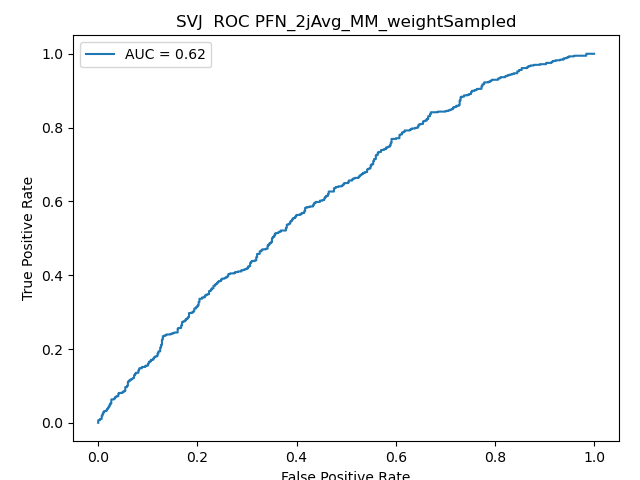
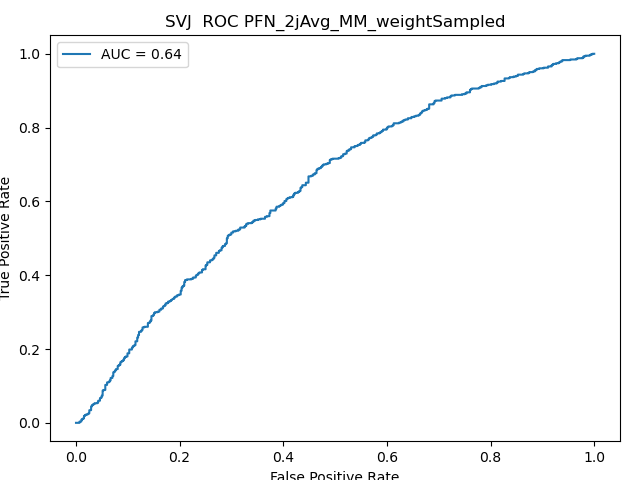
added weight sampling on read_ hlvs

diff --git a/eval_helper.py b/eval_helper.py
@@ -20,7 +20,8 @@ def getTwoJetSystem(x_events,y_events, tag_file, tag_title, bool_weight):
 #    track_array1 = ["jet_GhostTrack_pt_1", "jet_GhostTrack_eta_1", "jet_GhostTrack_phi_1", "jet_GhostTrack_e_1","jet_GhostTrack_z0_1", "jet_GhostTrack_d0_1", "jet_GhostTrack_qOverP_1"]
     #track_array1 = ["jet_GhostTrack_pt_1", "jet_GhostTrack_eta_1", "jet_GhostTrack_phi_1", "jet_GhostTrack_e_1"]
 #    jet_array = ["jet1_eta", "jet1_phi", "jet2_eta", "jet2_phi", "jet1_pt", "jet2_pt"]
-    jet_array = ["jet1_eta", "jet2_eta", "jet1_phi", "jet2_phi"] # order is important in apply_JetScalingRotation
+    jet_array = ["jet1_pt", "jet2_pt", "jet1_phi", "jet2_phi"] # order is important in apply_JetScalingRotation
+    #jet_array = ["jet1_eta", "jet2_eta", "jet1_phi", "jet2_phi"] # order is important in apply_JetScalingRotation
 #    jet_array_old = ["jet_eta", "jet_phi"]
 #    track_array2 = ["jet_GhostTrack_d0_0", "jet_GhostTrack_z0_0", "jet_GhostTrack_qOverP_0", "jet_GhostTrack_e_0"]
 
@@ -44,18 +45,16 @@ def getTwoJetSystem(x_events,y_events, tag_file, tag_title, bool_weight):
 
     """
     read_dir='/nevis/katya01/data/users/ebusch/SVJ/autoencoder/v8.1/'
+#    jet_bkg = read_hlvs(read_dir+"user.ebusch.QCDskim.mc20e.root", x_events, jet_array)  # select with weight??
+    jet_bkg = read_hlvs(read_dir+"user.ebusch.QCDskim.mc20e.root", x_events, jet_array, bool_weight=bool_weight)  # select with weight??
     bkg_in0 = read_vectors(read_dir+"user.ebusch.QCDskim.mc20e.root", x_events, track_array0, bool_weight=bool_weight)
-    #bkg_in0 = read_vectors(read_dir+"user.ebusch.QCDskim.mc20e.root", x_events,  bool_weight=bool_weight)
     sig_in0 = read_vectors(read_dir+"user.ebusch.SIGskim.mc20e.root", y_events,track_array0, bool_weight=bool_weight)
-    #sig_in0 = read_vectors(read_dir+"user.ebusch.SIGskim.mc20e.root", y_events, bool_weight=bool_weight)
     bkg_in1 = read_vectors(read_dir+"user.ebusch.QCDskim.mc20e.root", x_events, track_array1, bool_weight=bool_weight)
-    #bkg_in1 = read_vectors(read_dir+"user.ebusch.QCDskim.mc20e.root", x_events,  bool_weight=bool_weight)
     sig_in1 = read_vectors(read_dir+"user.ebusch.SIGskim.mc20e.root", y_events,track_array1, bool_weight=bool_weight)
-    #sig_in1 = read_vectors(read_dir+"user.ebusch.SIGskim.mc20e.root", y_events, bool_weight=bool_weight)
-    jet_bkg = read_hlvs(read_dir+"user.ebusch.QCDskim.mc20e.root", x_events, jet_array)  # select with weight??
-    #jet_bkg = read_hlvs(read_dir+"user.ebusch.QCDskim.mc20e.root", x_events,  bool_weight=bool_weight)
-    jet_sig = read_hlvs(read_dir+"user.ebusch.SIGskim.mc20e.root", y_events, jet_array)
-    #jet_sig = read_hlvs(read_dir+"user.ebusch.SIGskim.mc20e.root", y_events,  bool_weight=bool_weight)
+#    jet_sig = read_hlvs(read_dir+"user.ebusch.SIGskim.mc20e.root", y_events, jet_array)
+    jet_sig = read_hlvs(read_dir+"user.ebusch.SIGskim.mc20e.root", y_events, jet_array, bool_weight=bool_weight)
+
+    plot_vectors_jet(jet_bkg,jet_sig,tag_file=tag_file, tag_title=tag_title)
     _, _, bkg_nz0 = apply_TrackSelection(bkg_in0, jet_bkg)
     _, _, sig_nz0 = apply_TrackSelection(sig_in0, jet_sig)
     _, _, bkg_nz1 = apply_TrackSelection(bkg_in1, jet_bkg)
@@ -75,6 +74,8 @@ def getTwoJetSystem(x_events,y_events, tag_file, tag_title, bool_weight):
     sig_pt1 = sig_in1[sig_nz]
     bjet_sel = jet_bkg[bkg_nz]
     sjet_sel = jet_sig[sig_nz]
+    
+    print('bkg_pt0',bkg_pt0)
 
     bkg_sel0 = pt_sort(bkg_pt0, 0)
     bkg_sel1 = pt_sort(bkg_pt1, 1)
@@ -83,9 +84,12 @@ def getTwoJetSystem(x_events,y_events, tag_file, tag_title, bool_weight):
  
     bkg_sel = np.concatenate((bkg_sel0,bkg_sel1),axis=1)
     sig_sel = np.concatenate((sig_sel0,sig_sel1),axis=1)
+
+    
 #    print('bkg_sel0, bkg_sel1',bkg_sel.shape, bkg_sel1.shape)
 # ADDED 5/22/23 
 
+    sys.exit()
     plot_vectors(bkg_sel,sig_sel,tag_file=tag_file, tag_title=tag_title)
     bkg = apply_JetScalingRotation(bkg_sel, bjet_sel,0)
     sig = apply_JetScalingRotation(sig_sel, sjet_sel,0)
@@ -138,7 +142,7 @@ def pt_sort(x, jet_idx):
     for i in range(x.shape[0]):
         ev = x[i]
         x[i] = ev[ev[:,0].argsort()]
-    if (jet_idx == 0):
+    if (jet_idx == 0): # if leading jet
         y = x[:,-9:,:]
     elif (jet_idx == 1):
         y = x[:,-7:,:]

diff --git a/root_to_numpy.py b/root_to_numpy.py
@@ -24,7 +24,7 @@ def read_test_variables(infile, nEvents, variables):
         my_dict[key] = my_dict[key][idx]
     return my_dict
 
-def read_hlvs(infile, nEvents, variable_array): # different from variable_array on the top of this file
+def read_hlvs(infile, nEvents, variable_array, bool_weight=False): # different from variable_array on the top of this file
     file = uproot.open(infile)
 	
 	
@@ -32,28 +32,64 @@ def read_hlvs(infile, nEvents, variable_array): # different from variable_array 
 
 	# A random 6 variables	
     my_array = tree.arrays(variable_array, library="np")
-    idx = get_spaced_elements(len(my_array[variable_array[0]]),nEvents)
+    
+    if bool_weight:
+      weight_array=["weight"]
+      my_weight_array = tree.arrays(weight_array, library = "np")
+      my_weight_array = my_weight_array[weight_array[0]]
+      idx=np.random.choice( my_weight_array.size,size= nEvents, p=my_weight_array/float(my_weight_array.sum()),replace=False) # IMPT that replace=False so that event is picked only once
+      idx = np.sort(idx)
+#      print('weighted sampling idx', idx.shape, idx)
+
+    else: 
+    # select evenly spaced events from input distribution
+      idx = get_spaced_elements(len(my_array[variable_array[0]]),nEvents)
+#      print(f'{len(my_jet_array[jet_array[0]])/nEvents}th idx', idx.shape, idx)
+#      print(my_jet_array[jet_array[0]])
+#      print('evenly spaced sampling idx', idx.shape, idx)
+
+    #padded_array=selected_jet_array
+
+
     selected_array = np.array([val[idx] for _,val in my_array.items()]).T
 	#print("My array:")
 	#print(selected_array)
 	#print(type(selected_array))
     
+    print('SEL',selected_array.shape,selected_array)   
 
 #    print('before-'*50)
 #    print(f'{infile}\n{selected_array.shape}\n{selected_array}')
     max_jets=15 
     unique_variable_array=list(set([x.split("_")[-1] for x in variable_array])) # unique variable name without 'jetx_' 
+ #   print('&'*50)
+ #   print( f'{infile}\n{selected_array.shape}\n{selected_array}')
+    """
+    
+    ### Two different ways to reshape the 2D to 3D array of shape (5000, max_jets, 2) where 2 is for 2 hlvs
+    # 1st method: loop -> less efficient, but more intuitive
     padded_array= np.zeros((len(selected_array),max_jets,len(unique_variable_array)))
     for e in range(selected_array.shape[0]):
       padded_array[e, 0,0]=selected_array[e,0]
       padded_array[e, 1,0]=selected_array[e,1]
       padded_array[e, 0,1]=selected_array[e,2]
       padded_array[e, 1,1]=selected_array[e,3]
-      
- 
     print('-'*50)
+    print(f'{infile}\n{padded_array.shape}\n{padded_array}')
+    #"""
+ 
+    # 2nd method: use reshape, transpose and pad functions -> more efficient, but less intuitive 
+    size=2  # b/c jet1_pt and jet2_pt
+    length=2 # b/c eta and phi
+    padded_array=selected_array.reshape(selected_array.shape[0],size, length).transpose(0,2,1)
+    pad_width =((0,0),(0, max_jets-size), (0,0))
+    padded_array=np.pad(padded_array,pad_width=pad_width, constant_values= 0)
+#    print('!'*50)
 #    print(f'{infile}\n{padded_array.shape}\n{padded_array}')
     #return selected_array
+
+    ##############
+
     return padded_array
  
 

diff --git a/svj_pfn.py b/svj_pfn.py
@@ -27,9 +27,10 @@ ae_model = 'PFN'
 arch_dir = "architectures_saved/"
 ## Load leading two jets
 # Plot inputs before the jet rotation
-bool_weight=True
-if bool_weight:weight_tag='weightSampled'
-else:weight_tag='notweightSampled'
+bool_weight=False
+#bool_weight=True
+if bool_weight:weight_tag='ws'
+else:weight_tag='nws'
 tag= f'{pfn_model}_2jAvg_MM_{weight_tag}'
 
 bkg, sig = getTwoJetSystem(nevents,nevents, tag_file=tag+"_NSNR", tag_title=weight_tag+"_NSNR", bool_weight=bool_weight)
